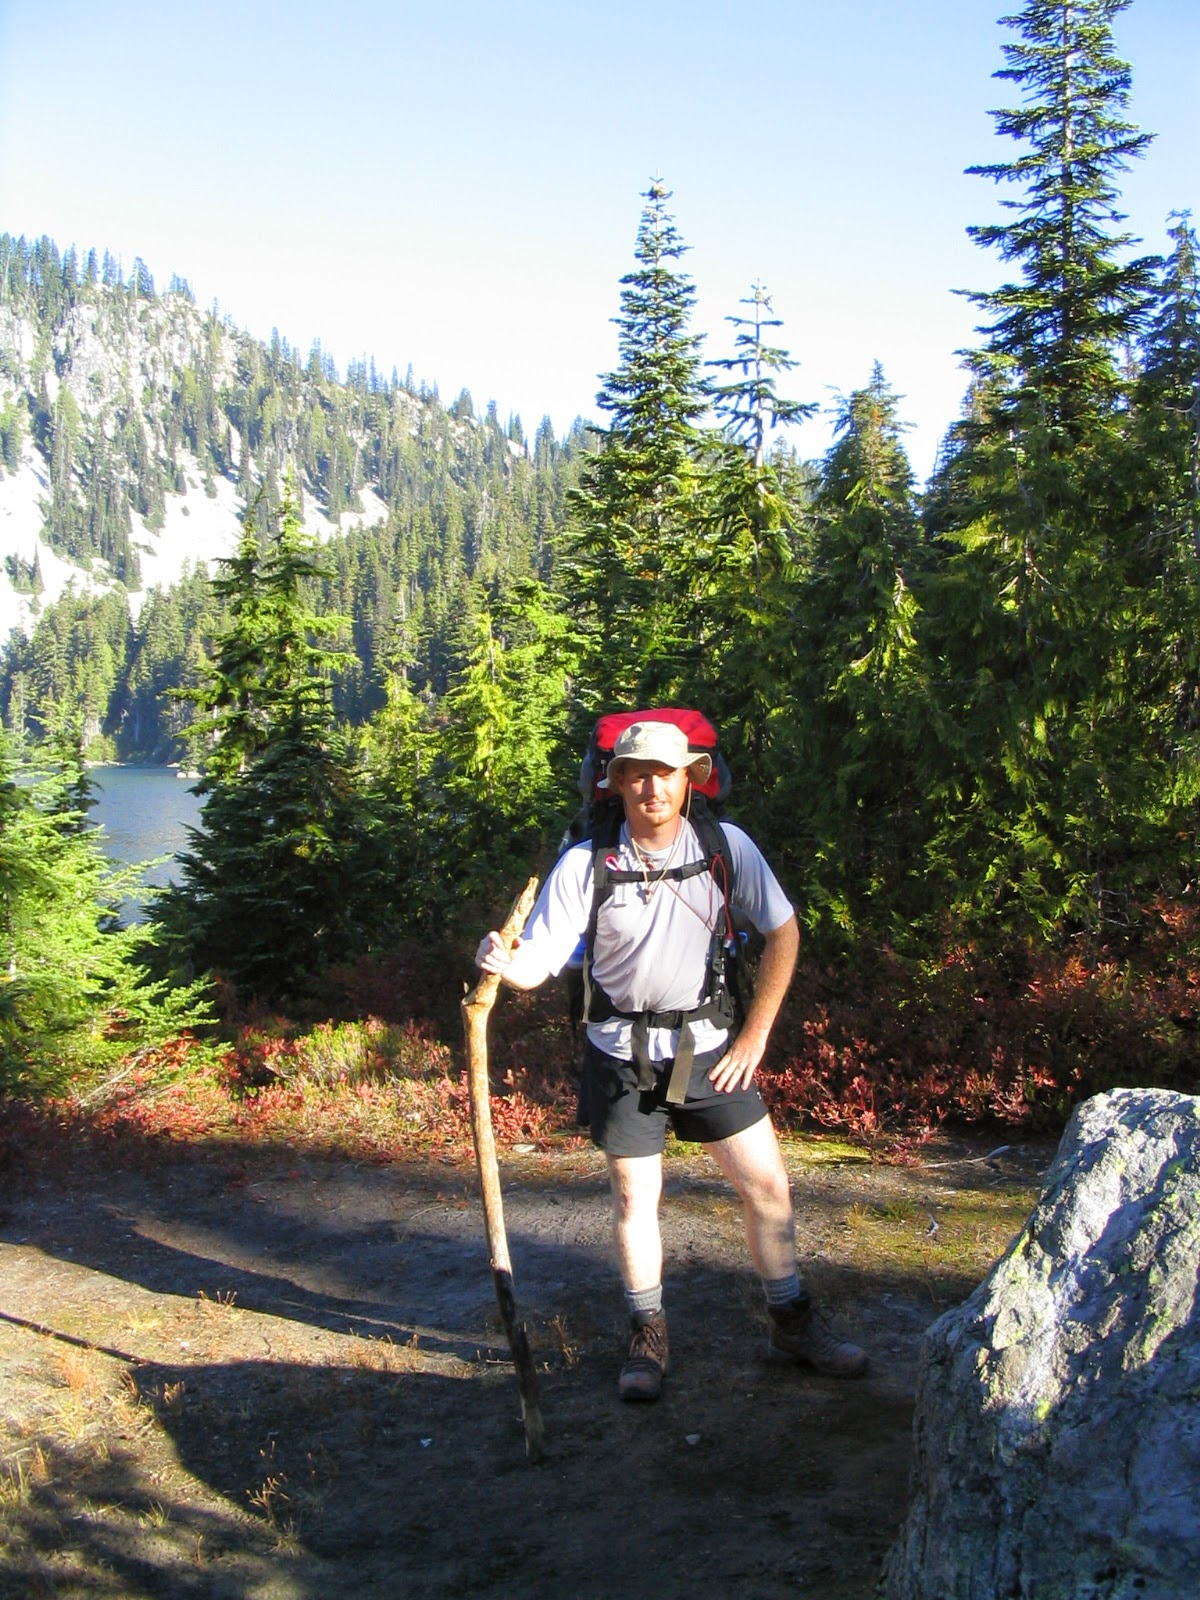
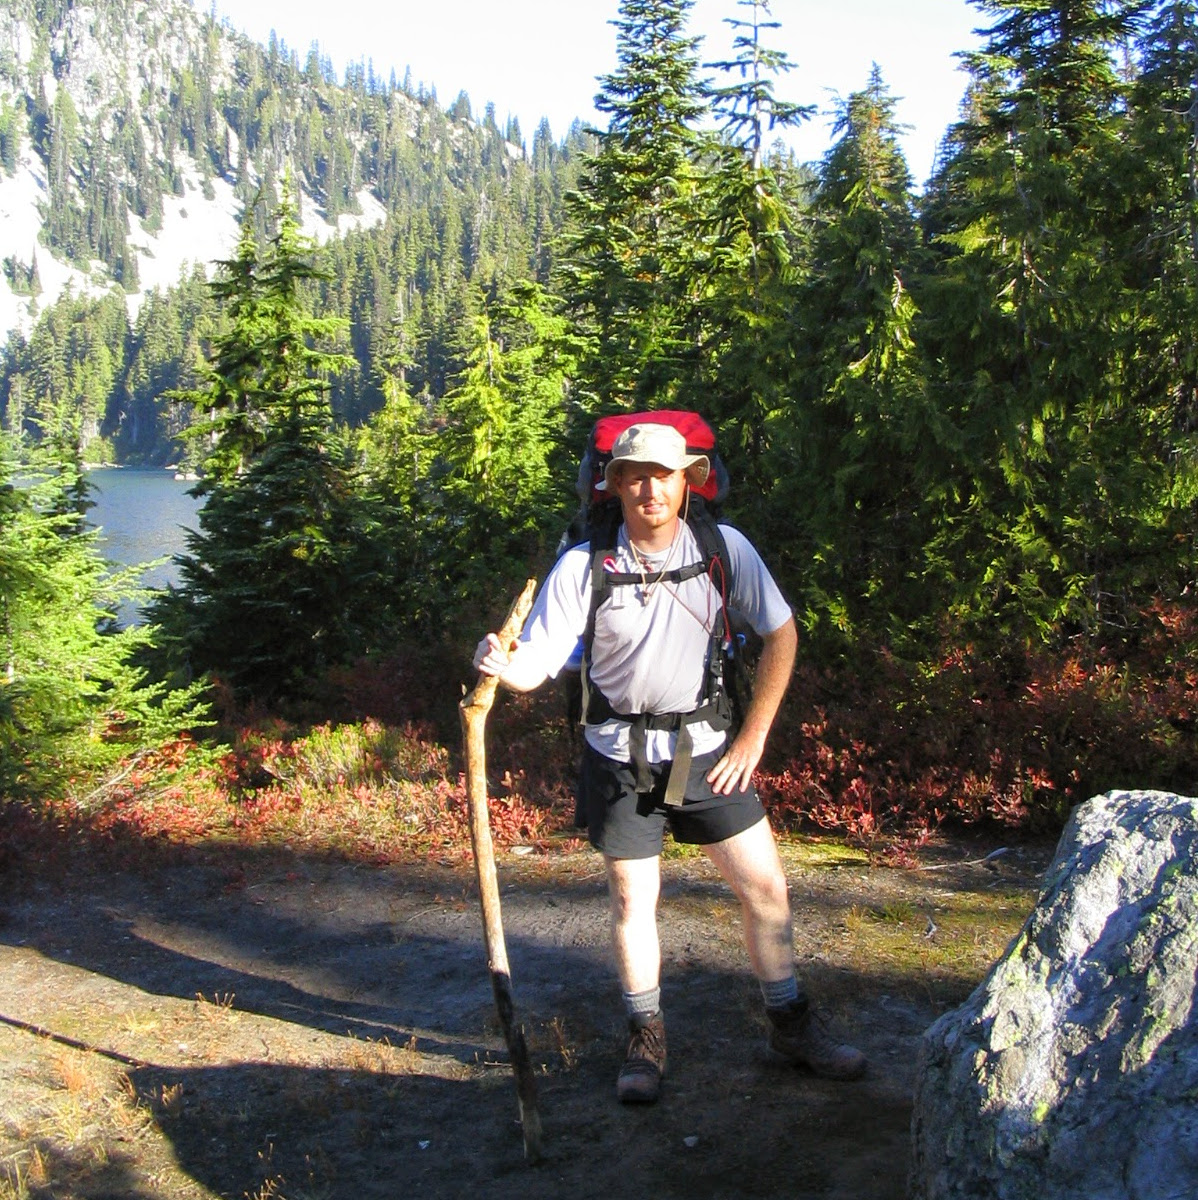
Fixing 'about' images

diff --git a/_includes/about.html b/_includes/about.html
@@ -1,6 +1,6 @@
 <!-- About Section -->
     <section id="about">
-        <div class="container">
+        <div class="container about">
             <div class="row">
                 <div class="col-lg-12 text-center">
                     <h2 class="section-heading">About Me</h2>
@@ -68,10 +68,10 @@
                     <p>&nbsp;</p>
                     <div class="row">
                         <div class="col-lg-6">
-                            <img class="img-responsive" src="img/about/outreach.jpg">
+                            <img class="img-responsive logos" src="img/about/outreach.jpg">
                         </div>
                         <div class="col-lg-6">
-                            <img class="img-responsive" src="img/about/ides-logo.jpg">
+                            <img class="img-responsive logos" src="img/about/ides-logo.jpg">
                         </div>
                     </div>
                     <p class="text-muted">A couple organizations I'm involved with: <a href="http://outreachindiana.org/">Outreach Inc.</a>, bringing the hope of Christ to homeless teens in Indianapolis;

diff --git a/_includes/css/jamiekurtz.css b/_includes/css/jamiekurtz.css
@@ -444,6 +444,18 @@ section h3.section-subheading {
     }
 }
 
+.about img {
+    margin: 0 auto;
+    height: 225px;
+    width: auto;
+}
+
+.about img.logos {
+    margin: 0 auto;
+    height: 75px;
+    width: auto;
+}
+
 .my-work {
     margin-bottom: 50px;
     text-align: center;
